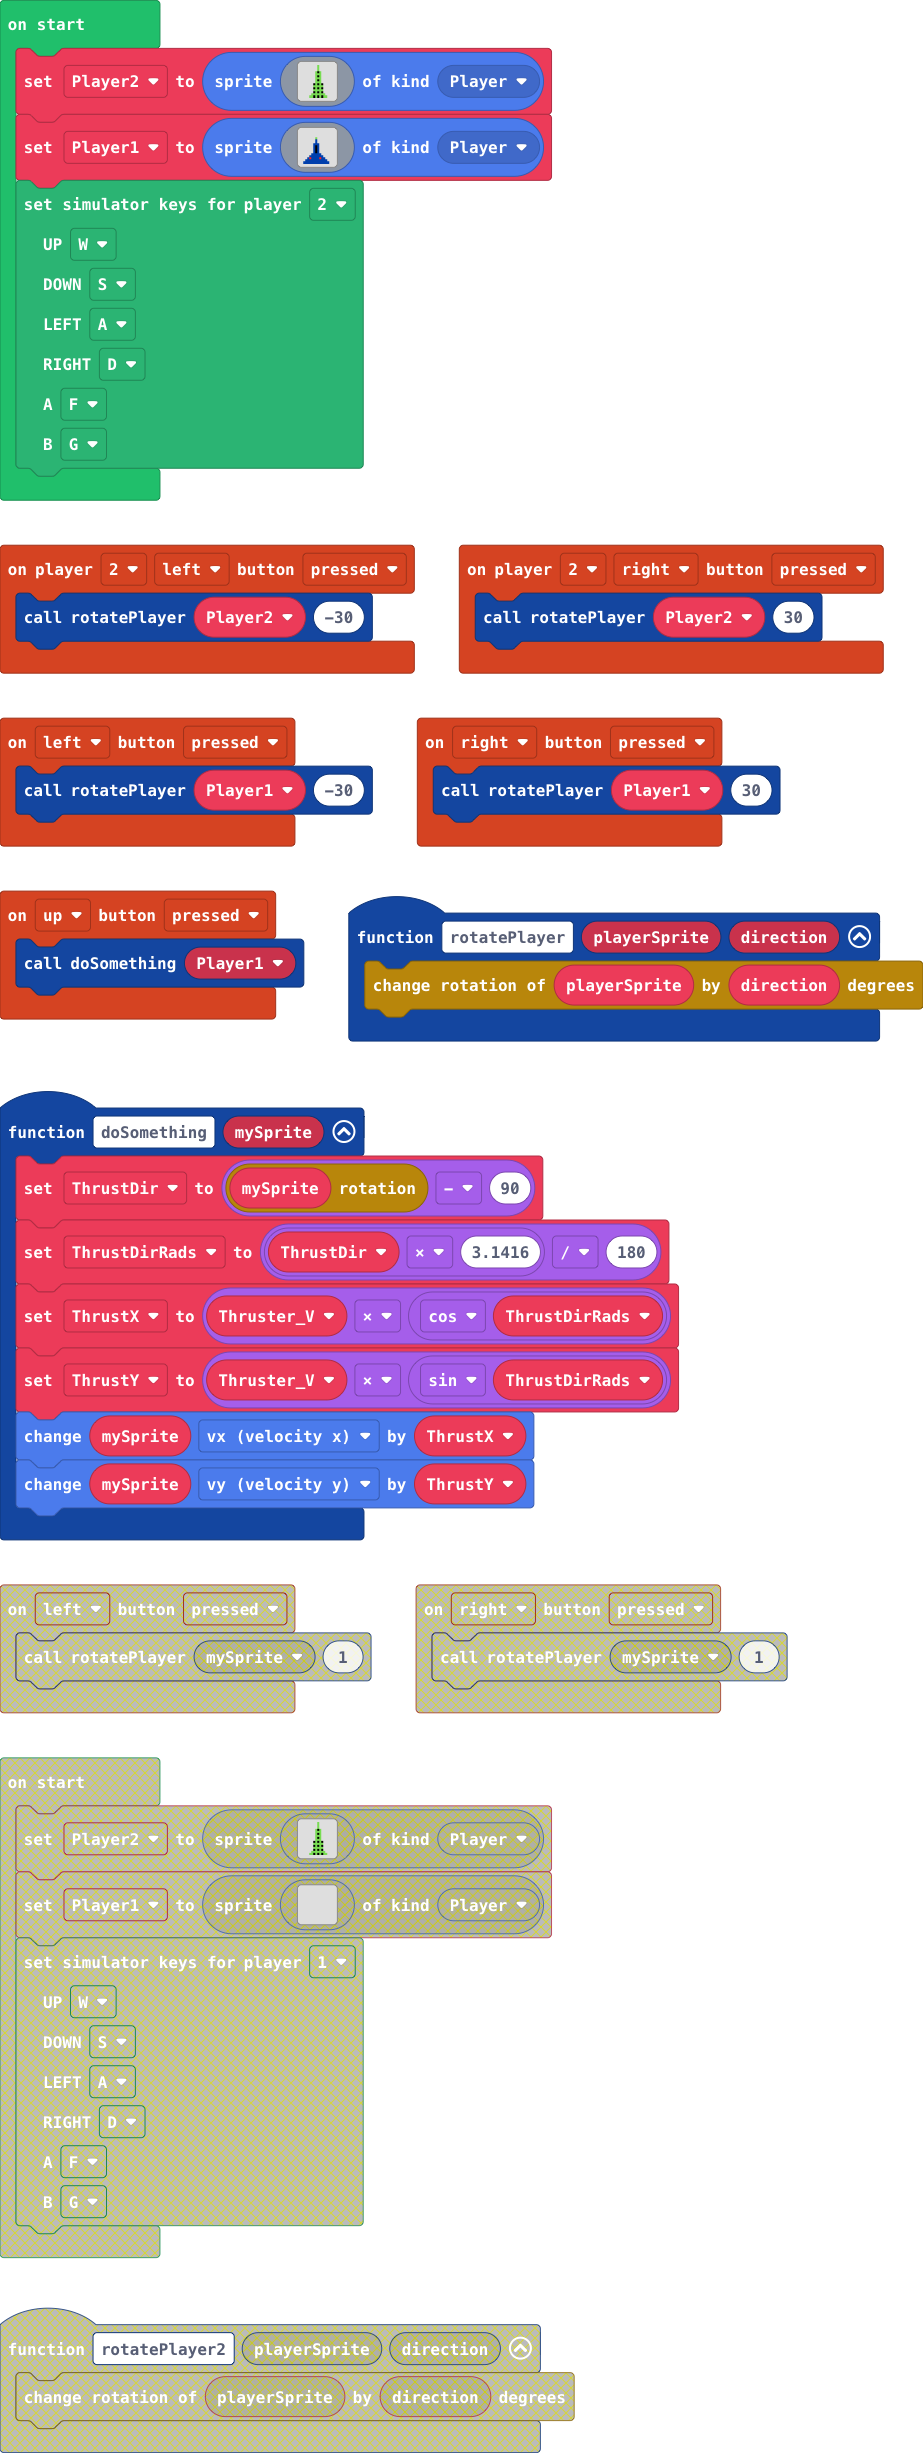
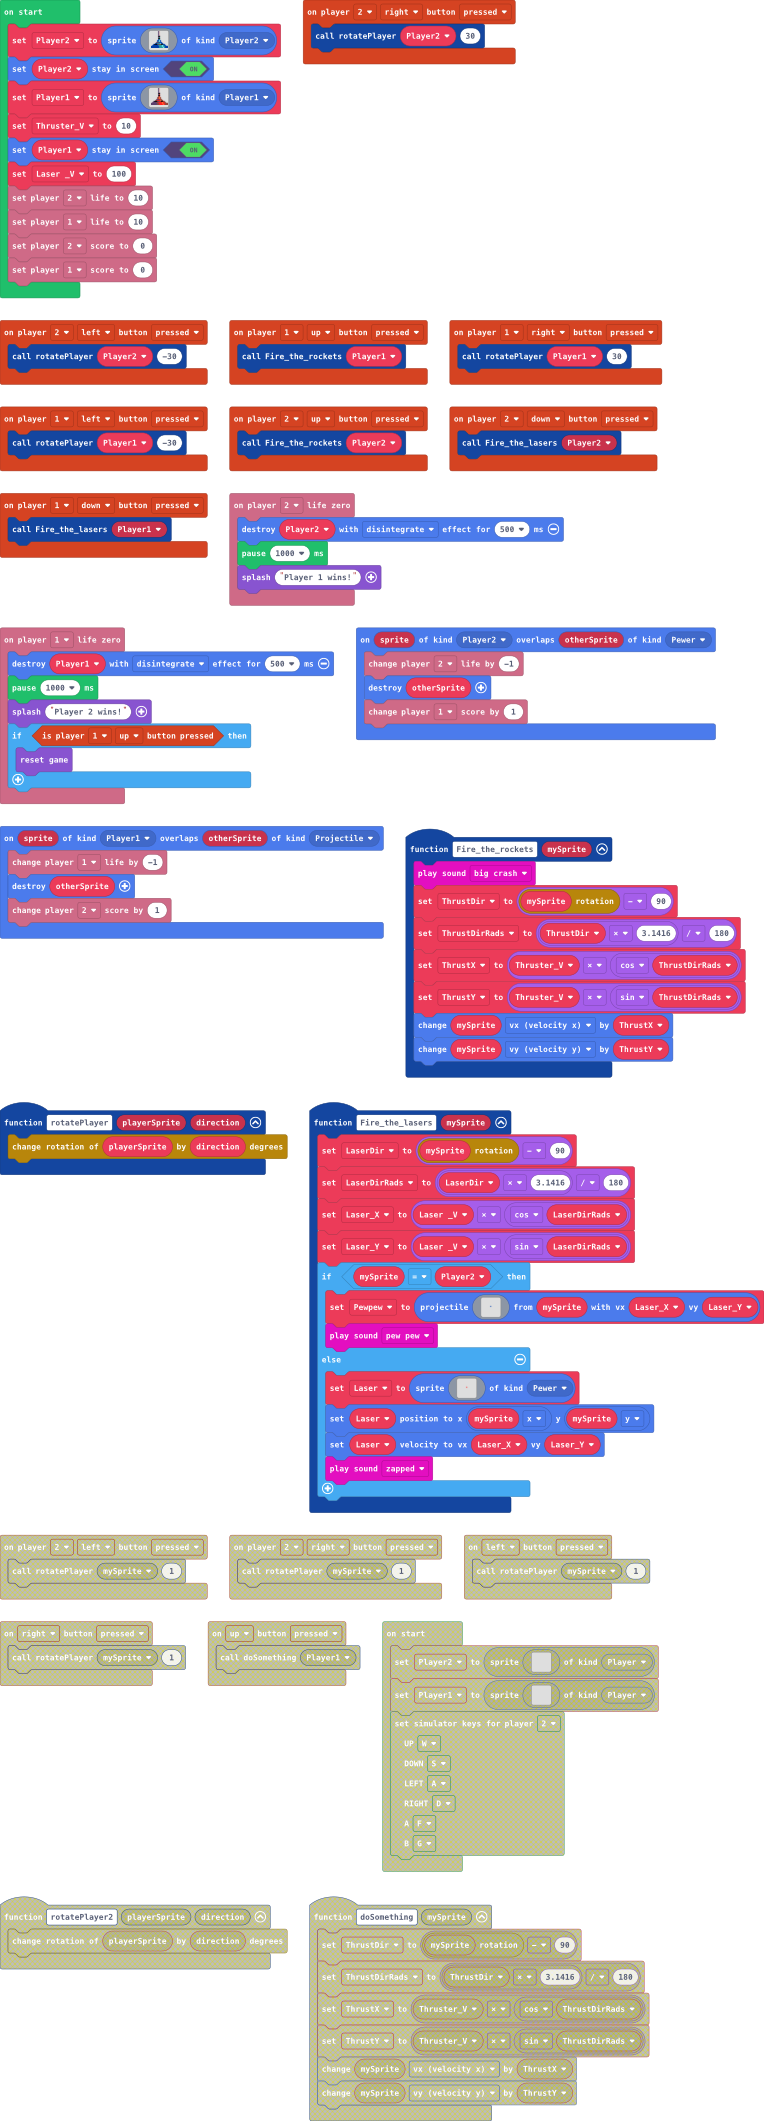
Update pxt.json, main.blocks, main.ts

diff --git a/main.ts b/main.ts
@@ -9,23 +9,38 @@ enum ActionKind {
     Idle,
     Jumping
 }
+namespace SpriteKind {
+    export const Player2 = SpriteKind.create()
+    export const Player1 = SpriteKind.create()
+    export const Pewer = SpriteKind.create()
+}
 function rotatePlayer (playerSprite: Sprite, direction: number) {
     transformSprites.changeRotation(playerSprite, direction)
 }
-controller.up.onEvent(ControllerButtonEvent.Pressed, function () {
-    doSomething(Player1)
+controller.player1.onButtonEvent(ControllerButton.Up, ControllerButtonEvent.Pressed, function () {
+    Fire_the_rockets(Player1)
 })
-controller.left.onEvent(ControllerButtonEvent.Pressed, function () {
-    rotatePlayer(Player1, -30)
+sprites.onOverlap(SpriteKind.Player1, SpriteKind.Projectile, function (sprite, otherSprite) {
+    info.player1.changeLifeBy(-1)
+    otherSprite.destroy()
+    info.player2.changeScoreBy(1)
 })
-controller.right.onEvent(ControllerButtonEvent.Pressed, function () {
-    rotatePlayer(Player1, 30)
+controller.player2.onButtonEvent(ControllerButton.Down, ControllerButtonEvent.Pressed, function () {
+    Fire_the_lasers(Player2)
+})
+sprites.onOverlap(SpriteKind.Player2, SpriteKind.Pewer, function (sprite, otherSprite) {
+    info.player2.changeLifeBy(-1)
+    otherSprite.destroy()
+    info.player1.changeScoreBy(1)
+})
+controller.player2.onButtonEvent(ControllerButton.Up, ControllerButtonEvent.Pressed, function () {
+    Fire_the_rockets(Player2)
 })
 controller.player2.onButtonEvent(ControllerButton.Right, ControllerButtonEvent.Pressed, function () {
     rotatePlayer(Player2, 30)
 })
-function doSomething (mySprite: Sprite) {
-    let Thruster_V = 0
+function Fire_the_rockets (mySprite: Sprite) {
+    music.bigCrash.play()
     ThrustDir = transformSprites.getRotation(mySprite) - 90
     ThrustDirRads = ThrustDir * 3.1416 / 180
     ThrustX = Thruster_V * Math.cos(ThrustDirRads)
@@ -36,54 +51,132 @@ function doSomething (mySprite: Sprite) {
 controller.player2.onButtonEvent(ControllerButton.Left, ControllerButtonEvent.Pressed, function () {
     rotatePlayer(Player2, -30)
 })
+controller.player1.onButtonEvent(ControllerButton.Right, ControllerButtonEvent.Pressed, function () {
+    rotatePlayer(Player1, 30)
+})
+function Fire_the_lasers (mySprite: Sprite) {
+    LaserDir = transformSprites.getRotation(mySprite) - 90
+    LaserDirRads = LaserDir * 3.1416 / 180
+    Laser_X = Laser__V * Math.cos(LaserDirRads)
+    Laser_Y = Laser__V * Math.sin(LaserDirRads)
+    if (mySprite == Player2) {
+        Pewpew = sprites.createProjectileFromSprite(img`
+            . . . . . . . . . . . . . . . . 
+            . . . . . . . . . . . . . . . . 
+            . . . . . . . . . . . . . . . . 
+            . . . . . . . . . . . . . . . . 
+            . . . . . . . . . . . . . . . . 
+            . . . . . . . . . . . . . . . . 
+            . . . . . . . . . . . . . . . . 
+            . . . . . . . 8 . . . . . . . . 
+            . . . . . . . . . . . . . . . . 
+            . . . . . . . . . . . . . . . . 
+            . . . . . . . . . . . . . . . . 
+            . . . . . . . . . . . . . . . . 
+            . . . . . . . . . . . . . . . . 
+            . . . . . . . . . . . . . . . . 
+            . . . . . . . . . . . . . . . . 
+            . . . . . . . . . . . . . . . . 
+            `, mySprite, Laser_X, Laser_Y)
+        music.pewPew.play()
+    } else {
+        Laser = sprites.create(img`
+            . . . . . . . . . . . . . . . . 
+            . . . . . . . . . . . . . . . . 
+            . . . . . . . . . . . . . . . . 
+            . . . . . . . . . . . . . . . . 
+            . . . . . . . . . . . . . . . . 
+            . . . . . . . . . . . . . . . . 
+            . . . . . . . . . . . . . . . . 
+            . . . . . . . 2 . . . . . . . . 
+            . . . . . . . . . . . . . . . . 
+            . . . . . . . . . . . . . . . . 
+            . . . . . . . . . . . . . . . . 
+            . . . . . . . . . . . . . . . . 
+            . . . . . . . . . . . . . . . . 
+            . . . . . . . . . . . . . . . . 
+            . . . . . . . . . . . . . . . . 
+            . . . . . . . . . . . . . . . . 
+            `, SpriteKind.Pewer)
+        Laser.setPosition(mySprite.x, mySprite.y)
+        Laser.setVelocity(Laser_X, Laser_Y)
+        music.zapped.play()
+    }
+}
+info.player1.onLifeZero(function () {
+    Player1.destroy(effects.disintegrate, 500)
+    pause(1000)
+    game.splash("Player 2 wins!")
+    if (controller.player1.isPressed(ControllerButton.Up)) {
+        game.reset()
+    }
+})
+info.player2.onLifeZero(function () {
+    Player2.destroy(effects.disintegrate, 500)
+    pause(1000)
+    game.splash("Player 1 wins!")
+})
+controller.player1.onButtonEvent(ControllerButton.Left, ControllerButtonEvent.Pressed, function () {
+    rotatePlayer(Player1, -30)
+})
+controller.player1.onButtonEvent(ControllerButton.Down, ControllerButtonEvent.Pressed, function () {
+    Fire_the_lasers(Player1)
+})
+let Laser: Sprite = null
+let Pewpew: Sprite = null
+let Laser_Y = 0
+let Laser_X = 0
+let LaserDirRads = 0
+let LaserDir = 0
 let ThrustY = 0
 let ThrustX = 0
 let ThrustDirRads = 0
 let ThrustDir = 0
+let Laser__V = 0
+let Thruster_V = 0
 let Player1: Sprite = null
 let Player2: Sprite = null
 Player2 = sprites.create(img`
-    . . . . . . . . 7 . . . . . . . 
-    . . . . . . . . 7 . . . . . . . 
-    . . . . . . . . 7 . . . . . . . 
-    . . . . . . . 7 f 7 . . . . . . 
-    . . . . . . . 7 7 7 . . . . . . 
-    . . . . . . . 7 f 7 . . . . . . 
-    . . . . . . . 7 7 7 . . . . . . 
-    . . . . . . . 7 f 7 . . . . . . 
-    . . . . . . . 7 7 7 . . . . . . 
-    . . . . . . f 7 f 7 f . . . . . 
-    . . . . . . 7 7 7 7 7 . . . . . 
-    . . . . . . f 7 f 7 f . . . . . 
-    . . . . . . 7 7 7 7 7 . . . . . 
-    . . . . . . f 7 f 7 f . . . . . 
-    . . . . . 7 7 7 7 7 7 7 . . . . 
-    . . . . 7 7 f 7 f 7 f 7 7 . . . 
-    `, SpriteKind.Player)
+    . . . . . . . c d . . . . . . . 
+    . . . . . . . c d . . . . . . . 
+    . . . . . . . c d . . . . . . . 
+    . . . . . . . c b . . . . . . . 
+    . . . . . . . f f . . . . . . . 
+    . . . . . . . c 6 . . . . . . . 
+    . . . . . . . f f . . . . . . . 
+    . . . . . . . 8 6 . . . . . . . 
+    . . . . . . 8 8 9 8 . . . . . . 
+    . . . . . . 8 6 9 8 . . . . . . 
+    . . . . . c c c 8 8 8 . . . . . 
+    . . . . 8 8 6 6 6 9 8 8 . . . . 
+    . . 8 f f f c c e e f f 8 8 . . 
+    . 8 8 8 8 8 8 6 6 6 6 9 6 8 8 . 
+    8 8 8 8 8 8 8 8 6 6 6 9 6 6 8 8 
+    8 8 8 8 8 8 8 8 6 6 6 6 9 6 8 8 
+    `, SpriteKind.Player2)
+Player2.setStayInScreen(true)
 Player1 = sprites.create(img`
-    . . . . . . . . . . . . . . . . 
-    . . . . . . . . . . . . . . . . 
-    . . . . . . . . . . . . . . . . 
-    . . . . . . . 7 . . . . . . . . 
-    . . . . . . . 8 . . . . . . . . 
-    . . . . . . . 8 . . . . . . . . 
-    . . . . . . 8 8 8 . . . . . . . 
-    . . . . . . 8 f 8 . . . . . . . 
-    . . . . . . 8 f 8 . . . . . . . 
-    . . . . . . 8 f 8 . . . . . . . 
-    . . . . . . 8 f 8 . . . . . . . 
-    . . . . . 8 8 8 8 8 . . . . . . 
-    . . . . 8 8 8 8 8 8 8 . . . . . 
-    . . . 8 2 8 8 8 8 2 8 8 . . . . 
-    . . 8 8 8 8 8 8 8 8 8 8 8 . . . 
-    . 8 8 8 8 8 8 8 8 8 8 8 8 8 . . 
-    `, SpriteKind.Player)
-MakeyMakey.setSimulatorKeymap(
-MakeyMakey.PlayerNumber.TWO,
-MakeyMakey.MakeyMakeyKey.W,
-MakeyMakey.MakeyMakeyKey.S,
-MakeyMakey.MakeyMakeyKey.A,
-MakeyMakey.MakeyMakeyKey.D,
-MakeyMakey.MakeyMakeyKey.F,
-MakeyMakey.MakeyMakeyKey.G
-)
+    . . . . . . . c d . . . . . . . 
+    . . . . . . . c d . . . . . . . 
+    . . . . . . . c d . . . . . . . 
+    . . . . . . . c b . . . . . . . 
+    . . . . . . . f f . . . . . . . 
+    . . . . . . . c 2 . . . . . . . 
+    . . . . . . . f f . . . . . . . 
+    . . . . . . . e 2 . . . . . . . 
+    . . . . . . e e 4 e . . . . . . 
+    . . . . . . e 2 4 e . . . . . . 
+    . . . . . c c c e e e . . . . . 
+    . . . . e e 2 2 2 4 e e . . . . 
+    . . c f f f c c e e f f e e . . 
+    . c c c c e e 2 2 2 2 4 2 e e . 
+    c c c c c c e e 2 2 2 4 2 2 e e 
+    c c c c c c e e 2 2 2 2 4 2 e e 
+    `, SpriteKind.Player1)
+Thruster_V = 10
+Player1.setStayInScreen(true)
+Laser__V = 100
+info.player2.setLife(10)
+info.player1.setLife(10)
+info.player2.setScore(0)
+info.player1.setScore(0)
